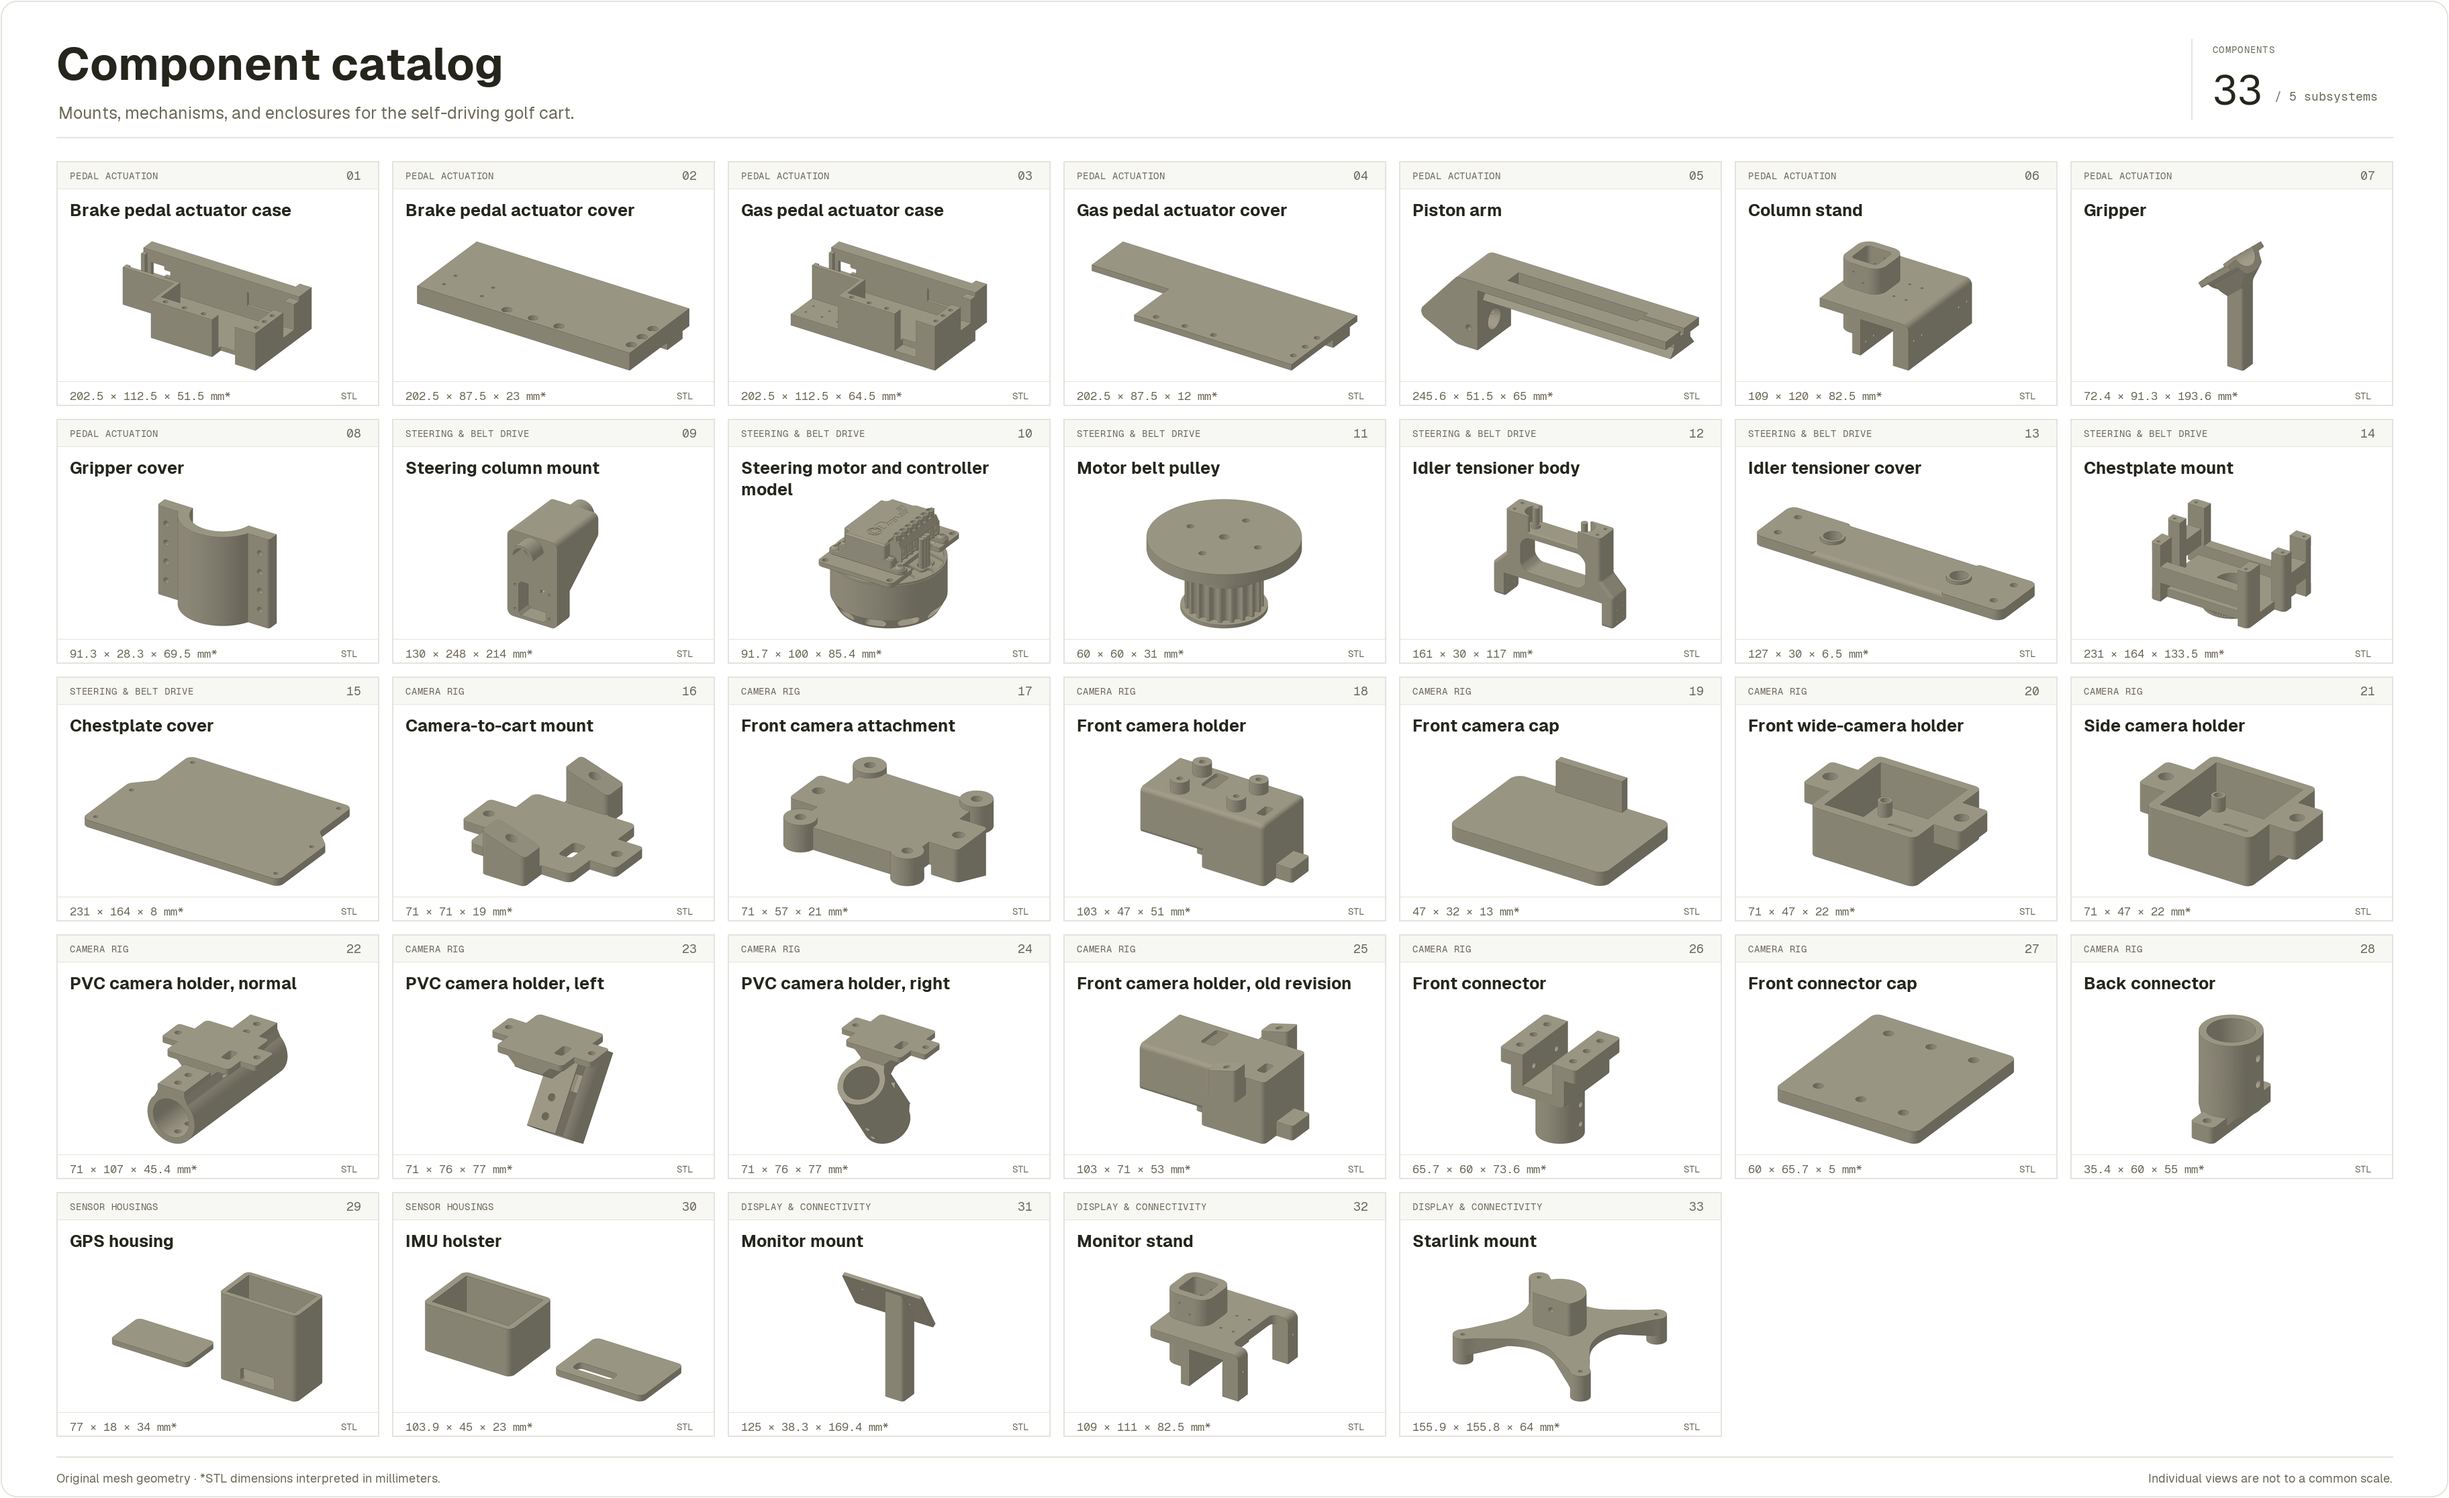
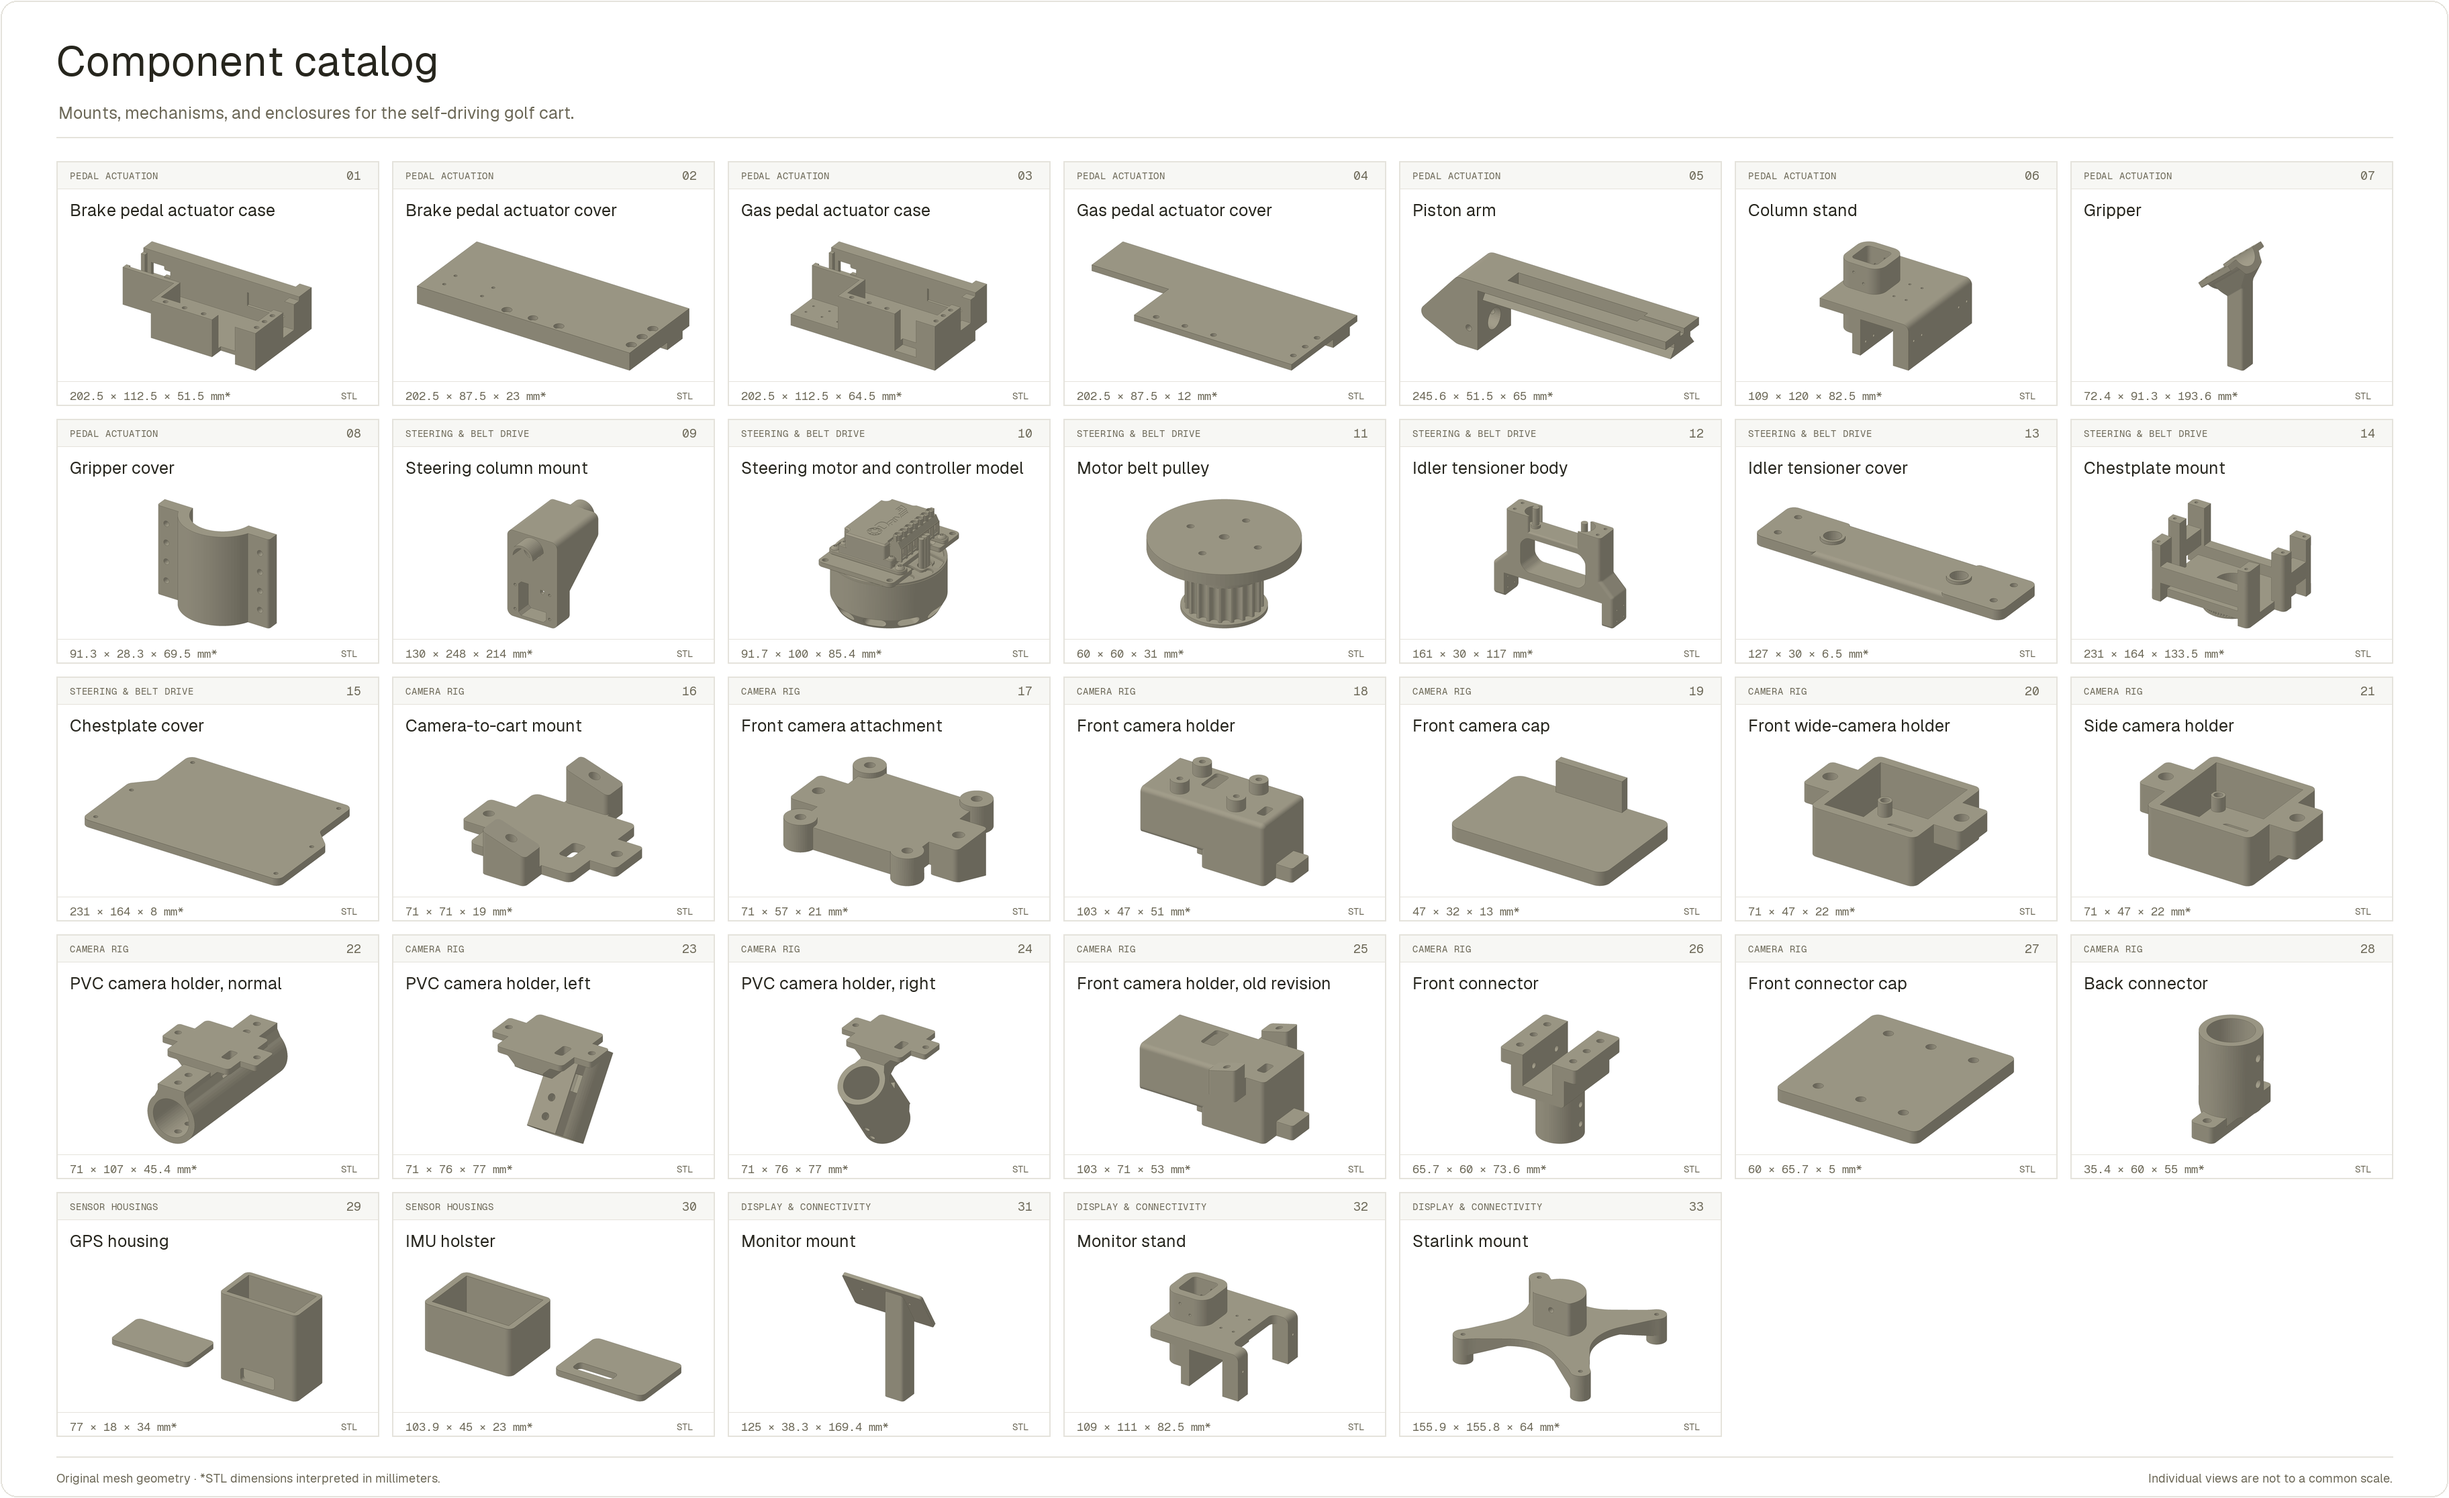
docs(hardware): add installed-hardware photo and refresh catalog
Add the annotated cart and steering assembly photo to both READMEs, explain the mechanical hardware, and describe the pictured six-camera configuration. Use Geist Regular and Geist Mono Regular in the catalog, remove the component count badge, and show the full catalog in the hardware README.

diff --git a/hardware/tools/render_cad.py b/hardware/tools/render_cad.py
@@ -123,7 +123,7 @@ def render(vertices, destination, width=1200, height=900):
 def font(size, face="ui"):
     # Bundle the real typefaces so regenerated images keep the same typography.
     fonts = HARDWARE / "tools/fonts/geist"
-    names = {"ui": "Geist-Regular.ttf", "bold": "Geist-Bold.ttf", "mono": "GeistMono-Regular.ttf"}
+    names = {"ui": "Geist-Regular.ttf", "mono": "GeistMono-Regular.ttf"}
     path = fonts / names[face]
     return ImageFont.truetype(str(path), size)
 
@@ -157,12 +157,8 @@ def make_sheet(parts, destination, columns, title, subtitle, cell_width=480):
     sheet = Image.new("RGB", (width, height), PALETTE["background"])
     draw = ImageDraw.Draw(sheet)
     ink, muted, rule = PALETTE["foreground"], PALETTE["muted"], PALETTE["border"]
-    draw.text((margin, 50), title, fill=ink, font=font(68, "bold"))
+    draw.text((margin, 50), title, fill=ink, font=font(62))
     draw.text((margin + 3, 151), subtitle, fill=muted, font=font(25))
-    draw.line((width - margin - 300, 58, width - margin - 300, 178), fill=rule, width=2)
-    tracked_text(draw, (width - margin - 268, 64), "COMPONENTS")
-    draw.text((width - margin - 268, 94), "33", fill=ink, font=font(61, "mono"))
-    draw.text((width - margin - 176, 131), "/ 5 subsystems", fill=muted, font=font(18, "mono"))
     draw.line((margin, 204, width - margin, 204), fill=rule, width=2)
     for i, part in enumerate(parts):
         x = margin + (i % columns) * (cell_width + gutter)
@@ -173,7 +169,7 @@ def make_sheet(parts, destination, columns, title, subtitle, cell_width=480):
         tracked_text(draw, (x + 20, y + 12), GROUP_NAMES[part["group"]].upper(), spacing=0.8)
         number = f"{i + 1:02d}"
         draw.text((x + cell_width - 48, y + 9), number, fill=muted, font=font(18, "mono"))
-        title_font = font(25, "bold")
+        title_font = font(25)
         lines = wrap_text(draw, part["name"], title_font, cell_width - 40)
         if len(lines) > 2:
             raise ValueError(f'Component title does not fit: {part["name"]}')

diff --git a/hardware/README.md b/hardware/README.md
@@ -2,7 +2,11 @@
 
 The cart's custom mounts, enclosures, pedal mechanisms, and steering hardware, with **33 original STL exports** and a shaded CAD render of every component.
 
-[![Selected cart hardware renders](renders/overview.png)](renders/catalog.png)
+![Installed cart hardware and steering-wheel assembly](photos/cart-hardware.png)
+
+Installed hardware (left) and steering-wheel assembly (right). The annotated photo shows the six-camera configuration, with three cameras facing forward and three facing rearward.
+
+[![Full landscape component catalog](renders/catalog.png)](renders/catalog.png)
 
 [Pedal actuation](#pedal-actuation) · [Steering](#steering-and-belt-drive) · [Cameras](#camera-rig) · [Sensors](#sensor-housings) · [Display and connectivity](#display-and-connectivity)
 
@@ -17,7 +21,7 @@ The installation descriptions above incorporate the builder's identification of 
 
 ## Files and previews
 
-The original filenames and file contents are preserved. Each preview links to its STL; the [landscape component catalog](renders/catalog.png) shows all 33 exports at once and is embedded in the main README. The catalog uses Geist throughout, with Geist Mono for labels, component numbers, and dimensions. It has a white background, warm charcoal text, muted olive details, thin neutral borders, and subtly rounded outer corners. The old front camera holder is retained as a separate revision.
+The original filenames and file contents are preserved. Each preview links to its STL; the [landscape component catalog](renders/catalog.png) shows all 33 exports at once and is embedded in both READMEs. The catalog uses Geist Regular for headings, component names, and notes, with Geist Mono Regular for labels, component numbers, and dimensions. It has a white background, warm charcoal text, muted olive details, thin neutral borders, and subtly rounded outer corners. The old front camera holder is retained as a separate revision.
 
 These are **STL mesh exports**, rather than editable Fusion/STEP projects. STL does not encode units: the dimensions below are axis-aligned bounding boxes in the original export axes, **assuming millimeters**. Renders are individually fitted to the frame and are not shown at a common scale. Some exports contain several separate pieces, such as an enclosure and its lid.
 
@@ -97,7 +101,7 @@ Mounts for the operator display and Starlink equipment.
 | Steering | ODrive S1 + M8325s motor, 3:1 HTD 5M belt drive |
 | Pedals | 2 linear actuators with potentiometer feedback, 2 BTS7960 H-bridges, Arduino Mega 2560 |
 | GNSS | u-blox ZED-F9x RTK receiver with NTRIP corrections |
-| Cameras | USB camera rig, including a 170° fisheye front camera |
+| Cameras | USB camera rig; the annotated photo shows six cameras, three front and three rear |
 | Safety | Hardware e-stop and firmware heartbeat watchdog |
 | Power | 48 V cart pack with dedicated 12 V and 5 V buck rails |
 
@@ -114,6 +118,7 @@ Subsystem documentation: [steering](../docs/steering.md) · [pedal actuators](..
 | [`mechanical/accessories/`](mechanical/accessories/) | Monitor and Starlink mounts. |
 | [`cad/catalog.json`](cad/catalog.json) | Component descriptions, paths, mesh dimensions, triangle counts, and original-file SHA-256 checksums. |
 | [`renders/`](renders/) | One PNG per export, selected-parts overview, and full catalog. |
+| [`photos/`](photos/) | Annotated photo of the installed cart hardware and steering assembly. |
 | [`tools/`](tools/) | Reproducible geometry renderer. |
 | [`arduino-sketches/`](arduino-sketches/) | Pedal control, watchdog, sensor-validation firmware, and upload tooling. See its [README](arduino-sketches/README.md). |
 | [`sensors/calibration/`](sensors/calibration/) | Camera intrinsics/extrinsics and calibration boards. |

diff --git a/README.md b/README.md
@@ -166,8 +166,20 @@ Full reference: [`cart-api/README.md`](cart-api/README.md).
 
 ## Hardware
 
+The cart is a Club Car Precedent retrofitted with drive-by-wire steering and
+pedals. An ODrive S1 controls an M8325s motor through a 3:1 HTD 5M belt drive;
+a printed chestplate fits over the steering wheel to turn it. Two 12 V linear
+actuators press the gas and brake, driven by BTS7960 H-bridges and an Arduino
+Mega with potentiometer feedback. A gripper anchors the wooden actuator frame
+to the steering column so it cannot lift when the pedals are pressed.
+
+An onboard Jetson AGX Thor connects to the cameras, IMU, and GNSS receiver.
+The pictured build carries six cameras, three front and three rear, plus a
+roof-mounted Starlink Mini for connectivity.
+
 <div align="center">
-<a href="hardware/renders/catalog.png"><img src="hardware/renders/catalog.png" width="1400" alt="Landscape catalog of all 33 mechanical components, with CAD renders and dimensions"></a>
+<img src="hardware/photos/cart-hardware.png" width="1200" alt="Annotated cart hardware photo showing the camera rig, Starlink Mini, onboard electronics, pedal actuators, and steering-wheel assembly">
+<br><sub>Installed hardware (left) and steering-wheel assembly (right).</sub>
 </div>
 
 | Subsystem | Hardware | Interface |
@@ -176,11 +188,17 @@ Full reference: [`cart-api/README.md`](cart-api/README.md).
 | Steering | ODrive S1 + M8325s, 3:1 HTD 5M belt | USB · ODrive ASCII |
 | Gas + brake | 2× linear actuators, BTS7960 drivers, Arduino Mega 2560 | USB serial |
 | Localization | u-blox ZED-F9x RTK GNSS + NTRIP corrections | NMEA / RTCM |
-| Vision | 4× USB cameras incl. 170° fisheye front camera | UVC |
+| Vision | Camera rig; six cameras in the pictured build | USB |
 | Safety | Hardware e-stop + firmware heartbeat watchdog | — |
 
-The cart includes **33 mechanical 3D-printed components**. Browse their CAD
-exports, per-component renders, and installation descriptions in the
+The cart includes **33 mechanical 3D-printed components** for steering, pedal
+actuation, camera mounting, sensor housings, and accessories.
+
+<div align="center">
+<a href="hardware/renders/catalog.png"><img src="hardware/renders/catalog.png" width="1400" alt="Landscape catalog of all 33 mechanical components, with CAD renders and dimensions"></a>
+</div>
+
+Browse the CAD exports, per-component renders, and installation descriptions in the
 [hardware catalog](hardware/README.md). Subsystem write-ups
 are in [`docs/`](docs): [steering](docs/steering.md) ·
 [pedal actuators](docs/linear_actuators.md) · [e-stop](docs/estop.md) ·

diff --git a/hardware/tools/fonts/geist/README.md b/hardware/tools/fonts/geist/README.md
@@ -1,6 +1,6 @@
 # Geist
 
-Geist Regular and Bold are used for headings, component names, and notes.
+Geist Regular is used for headings, component names, and notes.
 Geist Mono Regular is used for small labels, component numbers, and dimensions.
 The original TTF files and their
 [SIL Open Font License](LICENSE.txt) are bundled from the `geist` font package.
